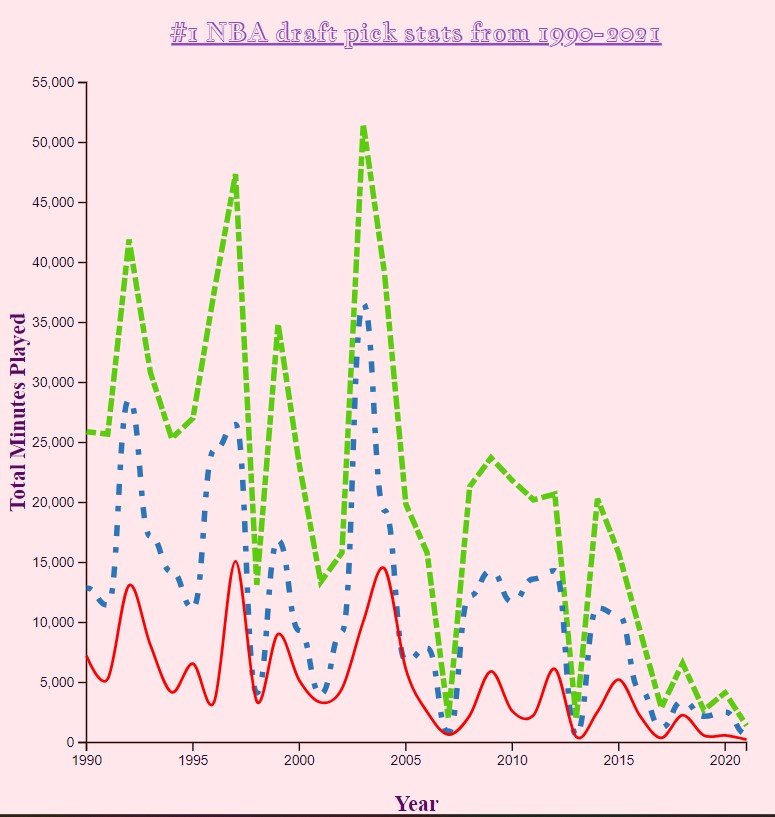
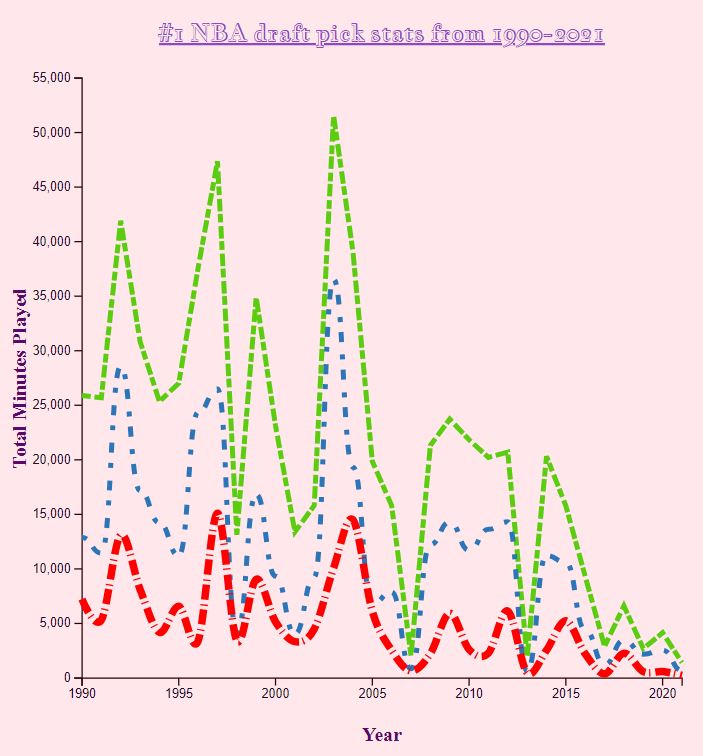
updated photo and readme
styled the 3rd line

Changed region(s): [[0.0, 0.0913, 1.0, 1.0], [0.2091, 0.0, 0.8663, 0.0608]]

diff --git a/Week-7-Drawing-Data/Week-7-HW/Readme.md b/Week-7-Drawing-Data/Week-7-HW/Readme.md
@@ -16,6 +16,7 @@
 - Wanted to draw a line that pointed to the line peaks but was unsuccessful
 
 ### Chart
-Graph shows the total minutes played (green), total points scored (blue), and total rebounds (red) for the #1 NBA draft picks, from 1990-2021. Lebron James, drafted in 2003, leads in the first two categories at 51,563 minutes & 36,559 points scored, respectively.  
+Graph shows the total minutes played (green), total points scored (blue), and total rebounds (red) for the #1 NBA draft picks, from 1990-2021. Lebron James, drafted in 2003, leads in the first two categories at 51,563 minutes & 36,559 points scored, respectively, and ranks 4th place rebounds.  
 
-![NBA stats for #1 pick](NBA-stats.jpg)
+
+![NBA stats](NBA-stats.jpg)
